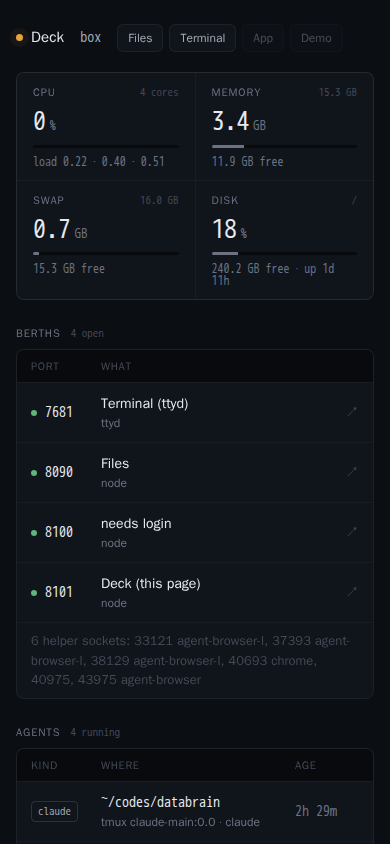
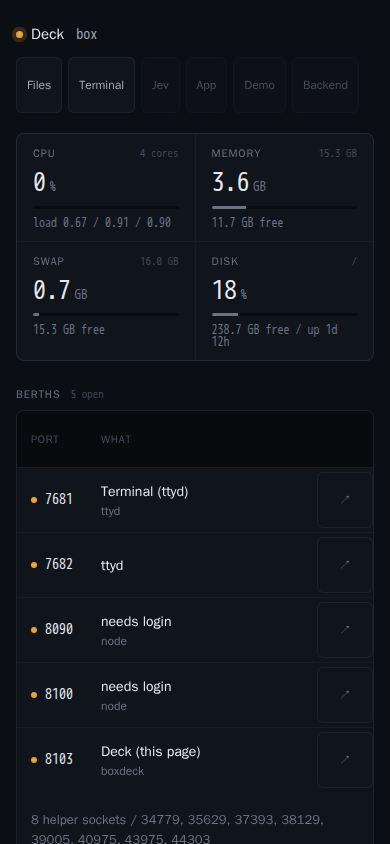
Unify deck navigation and add accessible herdr session controls

diff --git a/index.html b/index.html
@@ -36,12 +36,12 @@ a{color:inherit;text-decoration:none}
 .mast .host{font-family:var(--mono);color:var(--ink-2)}
 .mast .clock{margin-left:auto;font-family:var(--mono);font-variant-numeric:tabular-nums;color:var(--ink-3);font-size:12px}
 .pulse{display:inline-block;width:7px;height:7px;border-radius:50%;background:var(--lamp);margin-right:8px;vertical-align:1px;box-shadow:0 0 0 0 rgba(232,163,61,.5);animation:pulse 2.4s ease-out infinite}
-.pulse.stale{background:var(--rust);animation:none}
+.pulse.stale{background:var(--lamp);animation:none}
 @keyframes pulse{0%{box-shadow:0 0 0 0 rgba(232,163,61,.45)}70%{box-shadow:0 0 0 7px rgba(232,163,61,0)}100%{box-shadow:0 0 0 0 rgba(232,163,61,0)}}
 .quick{display:flex;gap:6px;flex-wrap:wrap}
 .quick a{font:500 12px/1 var(--sans);padding:7px 10px;border-radius:6px;border:1px solid var(--seam);background:var(--deck);color:var(--ink-2);transition:border-color .12s,color .12s}
 .quick a:hover{border-color:var(--lamp);color:var(--ink)}
-.quick a.off{opacity:.4;pointer-events:none}
+.quick a.off{opacity:.4;cursor:help}
 /* meters */
 .meters{display:grid;grid-template-columns:repeat(4,1fr);gap:1px;background:var(--seam);border:1px solid var(--seam);border-radius:8px;overflow:hidden;margin-bottom:28px}
 .meter{background:var(--deck);padding:14px 16px 12px;position:relative}
@@ -51,11 +51,11 @@ a{color:inherit;text-decoration:none}
 .meter .v small{font-size:13px;color:var(--ink-3);margin-left:4px;letter-spacing:0}
 .meter .bar{height:3px;background:var(--plate);border-radius:2px;overflow:hidden}
 .meter .bar i{display:block;height:100%;background:var(--ink-3);transition:width .6s ease}
-.meter.warn .bar i{background:var(--lamp)} .meter.bad .bar i{background:var(--rust)}
-.meter.warn .v{color:var(--lamp)} .meter.bad .v{color:var(--rust)}
+.meter.warn .bar i{background:var(--lamp)} .meter.bad .bar i{background:var(--lamp)}
+.meter.warn .v{color:var(--lamp)} .meter.bad .v{color:var(--lamp)}
 .meter svg{position:absolute;right:12px;top:30px;width:88px;height:30px;opacity:.7}
 .meter svg polyline{fill:none;stroke:var(--ink-4);stroke-width:1.2;stroke-linejoin:round}
-.meter.warn svg polyline{stroke:var(--lamp)} .meter.bad svg polyline{stroke:var(--rust)}
+.meter.warn svg polyline{stroke:var(--lamp)} .meter.bad svg polyline{stroke:var(--lamp)}
 .meter .sub{font:12px/1 var(--mono);color:var(--ink-3);margin-top:8px;font-variant-numeric:tabular-nums}
 /* viewer: a localhost app inside the deck */
 .viewer{border:1px solid var(--seam);border-radius:8px;background:var(--deck);overflow:hidden;margin-bottom:28px;display:none}
@@ -72,20 +72,20 @@ section{margin-bottom:28px}
 h2{font:500 11px/1 var(--sans);letter-spacing:.08em;text-transform:uppercase;color:var(--ink-3);margin:0 0 10px;display:flex;align-items:baseline;gap:10px}
 h2 b{font-family:var(--mono);font-weight:400;color:var(--ink-4);letter-spacing:0;text-transform:none}
 .board{border:1px solid var(--seam);border-radius:8px;background:var(--deck);overflow:hidden}
-.row{display:grid;align-items:center;gap:14px;padding:10px 14px;border-top:1px solid var(--seam-soft);min-height:42px}
+.row{display:grid;align-items:center;gap:14px;padding:10px 14px;border-top:1px solid var(--seam-soft);min-height:44px}
 .row:first-child{border-top:0}
-.row.head{color:var(--ink-4);font:500 11px/1 var(--sans);letter-spacing:.06em;text-transform:uppercase;min-height:32px;padding-top:9px;padding-bottom:8px;background:var(--plate)}
+.row.head{color:var(--ink-4);font:500 11px/1 var(--sans);letter-spacing:.06em;text-transform:uppercase;min-height:44px;padding-top:9px;padding-bottom:8px;background:var(--plate)}
 .mono{font-family:var(--mono);font-variant-numeric:tabular-nums}
 .dim{color:var(--ink-3)} .ghost{color:var(--ink-4)}
 .ellip{overflow:hidden;text-overflow:ellipsis;white-space:nowrap}
-.empty{padding:18px 14px;color:var(--ink-4);font-size:13px}
+.empty{padding:18px 14px;color:var(--ink-3);font-size:13px}
 /* berths (ports) */
-.ports .row{grid-template-columns:64px minmax(0,1.4fr) minmax(0,1fr) 20px}
+.ports .row{grid-template-columns:64px minmax(0,1.4fr) minmax(0,1fr) 44px}
 .ports .row.live{cursor:pointer}
 .ports .row.live:hover{background:var(--lamp-dim)}
 .ports .row.live:hover .arrow{color:var(--lamp)}
 .port{font:500 14px/1 var(--mono);color:var(--ink)}
-.led{display:inline-block;width:6px;height:6px;border-radius:50%;background:var(--moss);margin-right:8px;vertical-align:1px}
+.led{display:inline-block;width:6px;height:6px;border-radius:50%;background:var(--lamp);margin-right:8px;vertical-align:1px}
 .ephemeral .led{background:var(--ink-4)}
 .ephemeral{color:var(--ink-4)} .ephemeral .port{color:var(--ink-4)}
 .name{font-weight:500} .name small{display:block;color:var(--ink-3);font-weight:400;font-size:12px}
@@ -94,7 +94,7 @@ h2 b{font-family:var(--mono);font-weight:400;color:var(--ink-4);letter-spacing:0
 .cols{display:grid;grid-template-columns:3fr 2fr;gap:20px}
 .agents .row{grid-template-columns:64px minmax(0,1fr) 56px 56px 64px}
 .kind{font:500 11px/1 var(--mono);padding:4px 6px;border-radius:4px;border:1px solid var(--seam-hard);color:var(--ink-2);display:inline-block}
-.kind.codex{border-color:rgba(95,181,122,.35);color:var(--moss)}
+.kind.codex{border-color:var(--seam-hard);color:var(--ink-2)}
 .stack{display:flex;flex-direction:column;gap:20px}
 .list .row{grid-template-columns:minmax(0,1fr) auto}
 .reports .row{grid-template-columns:minmax(0,1fr) 80px 56px}
@@ -102,7 +102,25 @@ h2 b{font-family:var(--mono);font-weight:400;color:var(--ink-4);letter-spacing:0
 .reports .rel{font-family:var(--mono);font-size:12.5px}
 .reports .rel b{font-weight:500;color:var(--ink)}
 .age{color:var(--ink-3);font-family:var(--mono);font-size:12px;text-align:right;font-variant-numeric:tabular-nums}
-@media(max-width:820px){.mast .clock{display:none}.meters{grid-template-columns:repeat(2,1fr)}.cols{grid-template-columns:1fr}.ports .row{grid-template-columns:56px minmax(0,1fr) 20px}.ports .row>.cwd{display:none}.agents .row{grid-template-columns:56px minmax(0,1fr) 64px}.agents .row>.hide-sm{display:none}.reports .row{grid-template-columns:minmax(0,1fr) 56px}.reports .row>.hide-sm{display:none}.meter svg{display:none}}
+@media(max-width:820px){.mast .clock{display:none}.meters{grid-template-columns:repeat(2,1fr)}.cols{grid-template-columns:1fr}.ports .row{grid-template-columns:56px minmax(0,1fr) 44px}.ports .row>.cwd{display:none}.agents .row{grid-template-columns:56px minmax(0,1fr) 64px}.agents .row>.hide-sm{display:none}.reports .row{grid-template-columns:minmax(0,1fr) 56px}.reports .row>.hide-sm{display:none}.meter svg{display:none}}
+/* Same bridge tokens; larger controls and explicit feedback. */
+button{font:500 12px/1.4 var(--sans);border:1px solid var(--seam);border-radius:6px;background:var(--deck);color:var(--ink-2);cursor:pointer}
+a:focus-visible,button:focus-visible,input:focus-visible{outline:2px solid var(--lamp);outline-offset:2px}
+button:hover{border-color:var(--seam-hard);color:var(--ink)}
+.quick a{display:inline-flex;align-items:center;min-height:44px}
+.berth{position:relative;border-top:1px solid var(--seam-soft)}.berth .row{min-height:64px}.popout{position:absolute;right:8px;top:50%;transform:translateY(-50%);width:44px;height:44px;color:var(--ink-3)}
+.viewer .bar button,.viewer .bar a{display:inline-flex;align-items:center;justify-content:center;min-width:44px;min-height:44px}
+.viewer .content{position:relative}.loading{display:none;position:absolute;inset:0;place-content:center;background:var(--deck);color:var(--ink-2);font-family:var(--mono)}
+.viewer.loading-frame .loading{display:grid}.viewer.loading-frame iframe{visibility:hidden}
+.agents .row{grid-template-columns:64px minmax(0,1fr) 72px;min-height:64px}
+.agents .row.head{min-height:44px}.agents button.row{width:100%;text-align:left;border-radius:0;border:0;border-top:1px solid var(--seam-soft);font:inherit;color:inherit}
+.agents button.row:hover{background:var(--lamp-dim)}.agent-meta{display:block;font:12px/1.7 var(--mono);color:var(--ink-3)}
+.details{display:flex;flex-wrap:wrap;gap:0 8px;white-space:normal}.details span{white-space:nowrap}.status{font:12px/1.4 var(--mono);color:var(--ink-3)}.status.working,.status.blocked{color:var(--lamp)}
+.focus-pending .status{animation:focus-pulse .7s ease-in-out infinite alternate}@keyframes focus-pulse{to{opacity:.35}}
+.notice{color:var(--ink-3);font-size:12px;margin:8px 0}.notice:empty{display:none}.session-counts{color:var(--ink-3);font:12px/1.6 var(--mono);padding:12px 14px;border-top:1px solid var(--seam-soft)}
+footer{display:flex;justify-content:space-between;align-items:center;gap:16px;color:var(--ink-3);font-size:12px}footer button{min-height:44px;padding:8px 12px}
+@media(max-width:820px){.quick{width:100%}.quick a{min-height:56px}.row,.row.head,.agents .row,.agents .row.head{min-height:56px}.popout{width:56px;height:56px;right:0}.ports .row{grid-template-columns:56px minmax(0,1fr) 44px;padding-right:12px}.agents .row{grid-template-columns:52px minmax(0,1fr) 64px;gap:8px;padding:12px}.agent-meta{font-size:11px}.mast{gap:12px}.viewer{display:none!important}footer button{min-height:56px}.reports .row{min-height:56px}}
+@media(prefers-reduced-motion:reduce){*,*::before,*::after{animation:none!important;transition:none!important;scroll-behavior:auto!important}}
 </style>
 </head>
 <body>
@@ -114,24 +132,27 @@ h2 b{font-family:var(--mono);font-weight:400;color:var(--ink-4);letter-spacing:0
     <span class="clock" id="clock"></span>
   </div>
 
-  <div class="meters" id="meters"></div>
+  <div class="meters" id="meters" aria-label="Machine health"></div>
+  <p class="notice" id="connection" role="status">Connecting to the box…</p>
 
   <div class="viewer" id="viewer">
-    <div class="bar"><i class="led"></i><span class="url" id="vurl"></span><span class="dim" id="vhint" style="font-size:12px"></span><button id="vreload" title="Reload">↻</button><a id="vopen" target="_blank" rel="noopener" title="Open in a new tab">↗</a><button id="vclose" title="Close">✕</button></div>
-    <iframe id="vframe" src="about:blank" sandbox="allow-scripts allow-forms allow-same-origin allow-popups allow-modals allow-downloads"></iframe>
+    <div class="bar"><i class="led"></i><span class="url" id="vurl"></span><span class="dim" id="vhint" style="font-size:12px" role="status"></span><button id="vreload" title="Reload">↻</button><a id="vopen" target="_blank" rel="noopener" title="Open in a new tab">↗</a><button id="vclose" title="Close">✕</button></div>
+    <div class="content"><iframe id="vframe" title="Deck viewer" src="about:blank" sandbox="allow-scripts allow-forms allow-same-origin allow-popups allow-modals allow-downloads"></iframe><div class="loading" role="status"><span><i class="pulse"></i>Loading…</span></div></div>
   </div>
 
   <section class="ports">
     <h2>Berths <b id="portcount"></b></h2>
-    <div class="board" id="ports"></div>
+    <div class="board" id="ports"><div class="empty">Finding listeners. Start a dev server to add a berth.</div></div>
+    <p class="notice" id="mirror-errors" role="status"></p>
   </section>
 
   <div class="cols">
     <section class="agents">
       <h2>Agents <b id="agentcount"></b></h2>
-      <div class="board" id="agents"></div>
+      <div class="board" id="agents"></div><p class="notice" id="focus-status" role="status"></p>
     </section>
     <div class="stack">
+      <section class="list" id="herdrsec" hidden><h2>herdr <b id="herdrcount"></b></h2><div class="board" id="herdr"></div></section>
       <section class="list"><h2>tmux</h2><div class="board" id="tmux"></div></section>
       <section class="list"><h2>Browsers <b id="brcount"></b></h2><div class="board" id="browsers"></div></section>
       <section class="list" id="dockersec"><h2>Docker</h2><div class="board" id="docker"></div></section>
@@ -139,9 +160,10 @@ h2 b{font-family:var(--mono);font-weight:400;color:var(--ink-4);letter-spacing:0
   </div>
 
   <section class="reports">
-    <h2>Fresh reports <b>last 3 days</b></h2>
+    <h2>Fresh reports <b id="reportdays">last 3 days</b></h2>
     <div class="board" id="reports"></div>
   </section>
+  <footer><span>One door to your box.</span><form action="/logout" method="post"><button>Sign out</button></form></footer>
 </div>
 
 <script>
@@ -157,56 +179,114 @@ const grade = (pct, warn, bad) => pct >= bad ? 'bad' : pct >= warn ? 'warn' : ''
 let last = 0;
 
 function meters(h, hist) {
-  const memPct = Math.round(100 * h.memUsed / h.memTotal), swapPct = h.swapTotal ? Math.round(100 * h.swapUsed / h.swapTotal) : 0, loadPct = Math.round(100 * h.load1 / h.cores);
+  const memPct = (h.memTotal ? Math.round(100 * h.memUsed / h.memTotal) : 0), swapPct = h.swapTotal ? Math.round(100 * h.swapUsed / h.swapTotal) : 0, loadPct = Math.round(100 * h.load1 / h.cores);
   const m = [
-    { k: 'CPU', hint: h.cores + ' cores', v: h.cpu, unit: '%', pct: h.cpu, cls: grade(h.cpu, 70, 90), sub: `load ${h.load1.toFixed(2)} · ${h.load5.toFixed(2)} · ${h.load15.toFixed(2)}`, sp: spark(hist.cpu, 100) },
+    { k: 'CPU', hint: h.cores + ' cores', v: h.cpu, unit: '%', pct: h.cpu, cls: grade(h.cpu, 70, 90), sub: `load ${h.load1.toFixed(2)} / ${h.load5.toFixed(2)} / ${h.load15.toFixed(2)}`, sp: spark(hist.cpu, 100) },
     { k: 'Memory', hint: gb(h.memTotal) + ' GB', v: gb(h.memUsed), unit: 'GB', pct: memPct, cls: grade(memPct, 80, 92), sub: `${gb(h.memAvail)} GB free`, sp: spark(hist.mem, 100) },
     { k: 'Swap', hint: gb(h.swapTotal) + ' GB', v: gb(h.swapUsed), unit: 'GB', pct: swapPct, cls: grade(swapPct, 75, 90), sub: `${gb(h.swapFree)} GB free`, sp: spark(hist.swap, 100) },
-    { k: 'Disk', hint: '/', v: h.diskPct, unit: '%', pct: h.diskPct, cls: grade(h.diskPct, 80, 92), sub: `${gb(h.diskTotal - h.diskUsed)} GB free · up ${dur(Math.floor(h.uptime))}`, sp: '' },
+    { k: 'Disk', hint: '/', v: h.diskPct, unit: '%', pct: h.diskPct, cls: grade(h.diskPct, 80, 92), sub: `${gb(h.diskTotal - h.diskUsed)} GB free / up ${dur(Math.floor(h.uptime))}`, sp: '' },
   ];
   $('meters').innerHTML = m.map(x => `<div class="meter ${x.cls}"><div class="k">${x.k}<span>${x.hint}</span></div><div class="v">${x.v}<small>${x.unit}</small></div>${x.sp}<div class="bar"><i style="width:${Math.min(100, x.pct)}%"></i></div><div class="sub">${x.sub}</div></div>`).join('');
 }
 
+function rememberFocus() { const el=document.activeElement; if (!el || !el.closest('#ports,#agents,#quick,#reports')) return null; return {board:el.closest('[id]').id, pane:el.dataset.pane, href:el.getAttribute('href'), url:el.dataset.url}; }
+function restoreFocus(saved) { if (!saved) return; const board=$(saved.board); const el=[...board.querySelectorAll('a,button')].find(el => saved.pane ? el.dataset.pane===saved.pane : saved.url ? el.dataset.url===saved.url : el.getAttribute('href')===saved.href); if (el) el.focus({preventScroll:true}); }
 function ports(list, host) {
   const real = list.filter(p => !p.ephemeral), eph = list.filter(p => p.ephemeral);
   $('portcount').textContent = real.length + ' open';
-  const row = p => { const cur = p.url === curUrl ? ' cur' : ''; const name = p.label || p.title || p.proc || 'unknown'; const sub = p.label ? (p.title && p.title !== p.label && p.title !== 'needs login' ? p.title : (p.proc && p.proc !== name ? p.proc : '')) : (p.proc && p.proc !== name ? p.proc : '');
-    return `<a class="row ${p.ephemeral ? 'ephemeral' : 'live'}${cur}" href="${p.url}" target="_blank" rel="noopener" data-port="${p.port}"${p.title === 'needs login' ? ' data-login="1"' : ''}><span class="port"><i class="led"></i>${p.port}</span><span class="name ellip">${esc(name)}${sub ? `<small class="ellip">${esc(sub)}</small>` : ''}</span><span class="cwd dim mono ellip">${esc(p.cwd || '')}</span><span class="arrow">↗</span></a>`; };
-  $('ports').innerHTML = list.length ? `<div class="row head"><span>Port</span><span>What</span><span class="cwd">Where</span><span></span></div>` + real.map(row).join('') + (eph.length ? `<div class="empty" style="padding:8px 14px;border-top:1px solid var(--seam-soft)">${eph.length} helper socket${eph.length > 1 ? 's' : ''}: ${eph.map(p => p.port + (p.proc ? ' ' + esc(p.proc) : '')).join(', ')}</div>` : '') : `<div class="empty">Nothing is listening. Start a dev server and it shows here within 10 s as http://${host}:PORT.</div>`;
+  const row = p => { const cur = p.url === curUrl ? ' cur' : ''; const name = p.label || p.title || p.proc || 'Listener'; const sub = p.label ? (p.title && p.title !== p.label && p.title !== 'needs login' ? p.title : (p.proc && p.proc !== name ? p.proc : '')) : (p.proc && p.proc !== name ? p.proc : '');
+    return `<div class="berth"><a class="row live${cur}" href="${esc(p.url)}" target="_blank" rel="noopener" data-port="${p.port}"${p.title === 'needs login' ? ' data-login="1"' : ''}><span class="port"><i class="led"></i>${p.port}</span><span class="name ellip">${esc(name)}${sub ? `<small class="ellip">${esc(sub)}</small>` : ''}</span><span class="cwd dim mono ellip">${esc(p.cwd || '')}</span><span></span></a><button class="popout" data-url="${esc(p.url)}" title="Open ${esc(name)} in a new tab" aria-label="Open ${esc(name)} in a new tab">↗</button></div>`; };
+  $('ports').innerHTML = real.length ? `<div class="row head"><span>Port</span><span>What</span><span class="cwd">Where</span><span></span></div>` + real.map(row).join('') : `<div class="empty">No apps are listening. Start a dev server to add a berth.</div>`;
+  if (eph.length) $('ports').insertAdjacentHTML('beforeend', `<div class="empty">${eph.length} helper socket${eph.length > 1 ? 's' : ''} / ${eph.map(p => p.port).join(', ')}</div>`);
 }
-function quick(q, list, host) {
+function quick(q, list, host, terminal) {
   const open = new Set(list.map(p => p.port));
-  $('quick').innerHTML = (q || []).map(([n, p]) => `<a href="http://${host}:${p}" target="_blank" rel="noopener" class="${open.has(p) ? '' : 'off'}">${esc(n)}</a>`).join('');
+  const links = (q || []).map(([name, port]) => ({name, port: Number(port)}));
+  if (!links.some(l => l.name.toLowerCase() === 'files')) links.unshift({name:'Files', port:0});
+  if (!links.some(l => l.name.toLowerCase() === 'terminal')) links.push({name:'Terminal', port:7681});
+  $('quick').innerHTML = links.map(({name,port}) => {
+    const files = name.toLowerCase() === 'files', term = name.toLowerCase() === 'terminal';
+    const href = files ? '/files/' : term ? '/term/' : `http://${host.includes(':') ? '['+host+']' : host}:${port}`;
+    const enabled = files || (term ? terminal.available : open.has(port));
+    const hint = enabled ? `Open ${name}` : term ? terminal.error || (terminal.installed ? 'start ttyd' : 'install ttyd') : 'Start this server on the box';
+    return `<a ${enabled ? `href="${esc(href)}" target="_blank" rel="noopener"` : 'aria-disabled="true" tabindex="0"'} class="${enabled ? '' : 'off'}" title="${esc(hint)}">${esc(name)}</a>`;
+  }).join('');
 }
-
+const pendingFocus = new Set();
 function agents(list) {
-  $('agentcount').textContent = list.length ? list.length + ' running' : '';
-  $('agents').innerHTML = list.length ? `<div class="row head"><span>Kind</span><span>Where</span><span class="hide-sm">CPU</span><span class="hide-sm">Mem</span><span>Age</span></div>` + list.map(a => `<div class="row"><span><span class="kind ${a.kind}">${a.kind}</span></span><span class="ellip"><span class="mono">${esc(a.cwd)}</span><small class="dim" style="display:block;font-size:12px">${a.pane ? 'tmux ' + esc(a.pane) + (a.win ? ' · ' + esc(a.win) : '') : 'pid ' + a.pid}${a.model ? ' · ' + esc(a.model) : ''}</small></span><span class="mono dim hide-sm">${a.cpu.toFixed(0)}%</span><span class="mono dim hide-sm">${Math.round(a.rss / 1048576)}M</span><span class="mono dim">${dur(a.secs)}</span></div>`).join('') : `<div class="empty">No claude or codex process is running.</div>`;
+  $('agentcount').textContent = list.length ? list.length + ' sessions' : '';
+  $('agents').innerHTML = list.length ? `<div class="row head"><span>Kind</span><span>Session</span><span>State</span></div>` + list.map(a => {
+    const tag = a.pane_id ? 'button' : 'div';
+    const title = a.terminal_title_stripped || a.cwd || 'pid ' + a.pid;
+    const context = a.tokens?.context ? 'ctx ' + (a.tokens.context.match(/[\d.]+%/)?.[0] || a.tokens.context) : '';
+    const meta = a.pane_id ? [a.pane_id,context,a.tokens?.limit].filter(Boolean).join(' / ') : [a.pane ? 'tmux '+a.pane : 'pid '+a.pid,a.model,`${a.cpu.toFixed(0)}% CPU`,`${Math.round(a.rss/1048576)}M`,dur(a.secs)].filter(Boolean).join(' / ');
+    return `<${tag} class="row${pendingFocus.has(a.pane_id) ? ' focus-pending' : ''}" ${a.pane_id ? `type="button" data-pane="${esc(a.pane_id)}" title="Focus ${esc(title)} in herdr"` : ''}><span><span class="kind">${esc(a.kind)}</span></span><span class="ellip"><span title="${esc(title)}">${esc(title)}</span><small class="agent-meta details" title="${esc(meta)}">${meta.split(' / ').map(part => `<span>${esc(part)}</span>`).join('')}</small>${a.pane_id ? `<small class="agent-meta ellip">${esc(a.cwd)}</small>` : ''}</span><span class="status ${['working','blocked'].includes(a.agent_status) ? a.agent_status : ''}">${esc(a.agent_status || 'running')}</span></${tag}>`;
+  }).join('') : `<div class="empty">No agents are running. Start claude or codex on the box.</div>`;
 }
-function tmux(list) { $('tmux').innerHTML = list.length ? list.map(s => `<div class="row"><span class="ellip"><span class="mono">${esc(s.name)}</span> <span class="dim">· ${s.windows} window${s.windows > 1 ? 's' : ''}</span></span><span class="mono dim">${s.attached ? 'attached' : 'detached'}</span></div>`).join('') : `<div class="empty">No tmux session.</div>`; }
-function browsers(list) { $('brcount').textContent = list.length ? list.length + ' of 2' : ''; $('browsers').innerHTML = list.length ? list.map(b => `<div class="row"><span class="ellip">Chrome${b.headless ? ' headless' : ''} <span class="dim mono">${b.port && b.port !== '0' ? 'cdp ' + b.port : 'pid ' + b.pid}</span></span><span class="mono dim">${Math.round(b.rss / 1048576)}M · ${dur(b.secs)}</span></div>`).join('') : `<div class="empty">No browser open.</div>`; }
-function docker(list) { $('docker').innerHTML = list.length ? list.map(c => `<div class="row"><span class="ellip"><span class="mono">${esc(c.name)}</span> <span class="dim">${esc(c.image)}</span></span><span class="mono dim ellip">${esc(c.status)}</span></div>`).join('') : `<div class="empty">No container running.</div>`; }
+function herdr(h) {
+  $('herdrsec').hidden = !h.running;
+  if (!h.running) return;
+  $('herdrcount').textContent = h.workspaces.length + ' workspaces';
+  const counts = {}; for (const a of h.agents) counts[a.agent_status] = (counts[a.agent_status] || 0) + 1;
+  $('herdr').innerHTML = (h.workspaces.length ? h.workspaces.map(w => `<div class="row"><span class="ellip mono">${esc(w.name || w.id)}</span><span class="dim mono">${w.tabs} tab${w.tabs === 1 ? '' : 's'}</span></div>`).join('') : `<div class="empty">No workspaces open. Open herdr on the box to start one.</div>`) + `<div class="session-counts">${h.agents.length ? Object.entries(counts).map(([status,n]) => `${n} ${esc(status)}`).join(' / ') : 'No agents yet. Start an agent in a herdr pane.'}</div>`;
+}
+function tmux(list) { $('tmux').innerHTML = list.length ? list.map(s => `<div class="row"><span class="ellip"><span class="mono">${esc(s.name)}</span> <span class="dim">/ ${s.windows} window${s.windows > 1 ? 's' : ''}</span></span><span class="mono dim">${s.attached ? 'attached' : 'detached'}</span></div>`).join('') : `<div class="empty">No tmux session. Run tmux on the box to start one.</div>`; }
+function browsers(list) { $('brcount').textContent = list.length ? list.length + ' open' : ''; $('browsers').innerHTML = list.length ? list.map(b => `<div class="row"><span class="ellip">Chrome${b.headless ? ' headless' : ''} <span class="dim mono">${b.port && b.port !== '0' ? 'cdp ' + b.port : 'pid ' + b.pid}</span></span><span class="mono dim">${Math.round(b.rss / 1048576)}M / ${dur(b.secs)}</span></div>`).join('') : `<div class="empty">No browser is open. Start a browser task when you need one.</div>`; }
+function docker(list) { $('docker').innerHTML = list.length ? list.map(c => `<div class="row"><span class="ellip"><span class="mono">${esc(c.name)}</span> <span class="dim">${esc(c.image)}</span></span><span class="mono dim ellip">${esc(c.status)}</span></div>`).join('') : `<div class="empty">No containers visible. Start one in Docker.</div>`; }
 function reports(list) {
-  $('reports').innerHTML = list.length ? list.map(r => { const i = r.rel.lastIndexOf('/'); return `<a class="row" ${r.url ? `href="${r.url}" target="_blank" rel="noopener"` : ''}><span class="rel ellip"><span class="dim">${esc(r.rel.slice(0, i + 1))}</span><b>${esc(r.rel.slice(i + 1))}</b></span><span class="age hide-sm">${(r.size / 1024).toFixed(0)} KB</span><span class="age">${ago(r.t)}</span></a>`; }).join('') : `<div class="empty">No report written in the last 3 days.</div>`;
+  $('reports').innerHTML = list.length ? list.map(r => { const i = r.rel.lastIndexOf('/'); return `<a class="row" ${r.url ? `href="${esc(r.url)}" target="_blank" rel="noopener"` : ''}><span class="rel ellip"><span class="dim">${esc(r.rel.slice(0, i + 1))}</span><b>${esc(r.rel.slice(i + 1))}</b></span><span class="age hide-sm">${(r.size / 1024).toFixed(0)} KB</span><span class="age">${ago(r.t)}</span></a>`; }).join('') : `<div class="empty">No recent reports here. Save a report under a configured report folder.</div>`;
 }
 
-let curUrl = '';
-function view(url, hint) { curUrl = url; $('vhint').textContent = hint || ''; $('vurl').textContent = url; $('vopen').href = url; $('vframe').src = url; $('viewer').classList.add('on'); document.querySelectorAll('.ports .row').forEach(r => r.classList.toggle('cur', r.getAttribute('href') === url)); }
-$('ports').addEventListener('click', e => { const a = e.target.closest('a.row.live'); if (!a || window.innerWidth < 820) return; e.preventDefault(); view(a.getAttribute('href'), a.dataset.login ? 'asks for a login: open ↗ once, sign in, come back' : ''); });
-$('vclose').onclick = () => { curUrl = ''; $('vframe').src = 'about:blank'; $('viewer').classList.remove('on'); document.querySelectorAll('.ports .row.cur').forEach(r => r.classList.remove('cur')); };
-$('vreload').onclick = () => { $('vframe').src = $('vframe').src; };
-async function tick() {
-  try {
-    const r = await fetch(location.origin + '/api/state', { cache: 'no-store' }); if (!r.ok) throw new Error(r.status);
-    const s = await r.json(); last = Date.now();
-    document.title = s.title + ' · ' + s.host; $('title').textContent = s.title;
-    $('host').textContent = s.host; $('host').title = s.health.host;
-    meters(s.health, s.hist); ports(s.ports, s.host); quick(s.quick, s.ports, s.host); agents(s.agents); tmux(s.tmux); browsers(s.browsers); docker(s.docker); reports(s.reports);
-    $('pulse').classList.remove('stale');
-  } catch (e) { $('pulse').classList.add('stale'); }
+let curUrl = '', returnFocus = null, viewerTimer;
+function loading() { $('viewer').classList.add('loading-frame'); $('vframe').setAttribute('aria-busy','true'); $('vhint').textContent = 'Loading…'; clearTimeout(viewerTimer); viewerTimer = setTimeout(() => { $('vhint').textContent = 'Still loading / try reload or open in a new tab'; }, 8000); }
+function view(url) {
+  if (window.innerWidth <= 820) { window.open(url, '_blank', 'noopener'); return; }
+  returnFocus = document.activeElement; curUrl = url; $('vurl').textContent = new URL(url,location.origin).href;
+  $('vopen').href = url; $('viewer').classList.add('on'); loading(); $('vframe').src = url;
+  $('viewer').scrollIntoView({block:'start',behavior:matchMedia('(prefers-reduced-motion: reduce)').matches ? 'auto' : 'smooth'});
+  $('vclose').focus({preventScroll:true});
+  document.querySelectorAll('.ports .row').forEach(r => r.classList.toggle('cur', r.getAttribute('href') === url));
 }
-setInterval(() => { $('clock').textContent = new Date().toLocaleTimeString([], { hour: '2-digit', minute: '2-digit', second: '2-digit' }) + (last && Date.now() - last > 10000 ? ' · stale' : ''); }, 1000);
-tick(); setInterval(() => { if (!document.hidden) tick(); }, 3000);
+function closeViewer() { clearTimeout(viewerTimer); curUrl = ''; $('vframe').src = 'about:blank'; $('viewer').classList.remove('on','loading-frame'); document.querySelectorAll('.ports .row.cur').forEach(r => r.classList.remove('cur')); if (returnFocus?.isConnected) returnFocus.focus({preventScroll:true}); }
+$('vframe').addEventListener('load', () => { if (!curUrl) return; clearTimeout(viewerTimer); $('viewer').classList.remove('loading-frame'); $('vframe').setAttribute('aria-busy','false'); $('vhint').textContent = ''; try { $('vframe').contentDocument?.addEventListener('keydown', e => { if (e.key === 'Escape') { e.preventDefault(); closeViewer(); } }); } catch {} });
+for (const id of ['ports','quick','reports']) $(id).addEventListener('click', e => {
+  const pop = e.target.closest('button.popout'); if (pop) { window.open(pop.dataset.url,'_blank','noopener'); return; }
+  const a = e.target.closest('a[href]'); if (!a || window.innerWidth <= 820 || e.ctrlKey || e.metaKey || e.shiftKey || e.altKey) return;
+  e.preventDefault(); view(a.getAttribute('href'));
+});
+$('agents').addEventListener('click', async e => {
+  const row = e.target.closest('button[data-pane]'); if (!row || pendingFocus.has(row.dataset.pane)) return;
+  const pane = row.dataset.pane; pendingFocus.add(pane); row.classList.add('focus-pending'); $('focus-status').textContent = 'Focusing pane…';
+  try { const r = await fetch('/api/herdr/focus',{method:'POST',headers:{'Content-Type':'application/json'},body:JSON.stringify({pane_id:pane})}); const result = await r.json(); if (!r.ok) throw new Error(result.error); $('focus-status').textContent = `Focused ${pane} in herdr on the box.`; }
+  catch (error) { $('focus-status').textContent = error.message || 'Could not focus the pane. Try again.'; }
+  finally { pendingFocus.delete(pane); row.classList.remove('focus-pending'); }
+});
+$('vclose').onclick = closeViewer;
+$('vreload').onclick = () => { if (curUrl) { loading(); $('vframe').src = curUrl; } };
+document.addEventListener('keydown', e => { if (e.key === 'Escape') closeViewer(); });
+window.addEventListener('resize', () => { if (window.innerWidth <= 820 && curUrl) closeViewer(); });
+let polling = false;
+async function tick() {
+  if (polling) return; polling = true;
+  try {
+    const r = await fetch('/api/state', {cache:'no-store'});
+    if (r.status === 401) { location.href = '/login?next=' + encodeURIComponent(location.pathname); return; }
+    if (!r.ok) throw new Error(r.status);
+    const s = await r.json(); last = Date.now();
+    document.title = s.title + ' / ' + s.host; $('title').textContent = s.title;
+    $('host').textContent = s.host; $('host').title = s.health.host;
+    const savedFocus=rememberFocus();
+    meters(s.health,s.hist); ports(s.ports,s.host); quick(s.quick,s.ports,s.host,s.terminal); agents(s.agents); herdr(s.herdr); tmux(s.tmux); browsers(s.browsers); docker(s.docker); reports(s.reports);
+    restoreFocus(savedFocus);
+    $('reportdays').textContent = 'last ' + s.reportDays + ' days';
+    $('mirror-errors').textContent = s.mirrorErrors.join(' / ');
+    $('connection').textContent = s.terminal.error || '';
+    $('pulse').classList.remove('stale');
+  } catch (e) { $('pulse').classList.add('stale'); $('connection').textContent = 'Connection lost. Check the box; retrying in 3 seconds.'; }
+  finally { polling = false; }
+}
+setInterval(() => { $('clock').textContent = new Date().toLocaleTimeString([], {hour:'2-digit',minute:'2-digit',second:'2-digit'}) + (last && Date.now() - last > 10000 ? ' / stale' : ''); },1000);
+tick(); setInterval(() => { if (!document.hidden) tick(); },3000);
 document.addEventListener('visibilitychange', () => { if (!document.hidden) tick(); });
 </script>
 </body>
